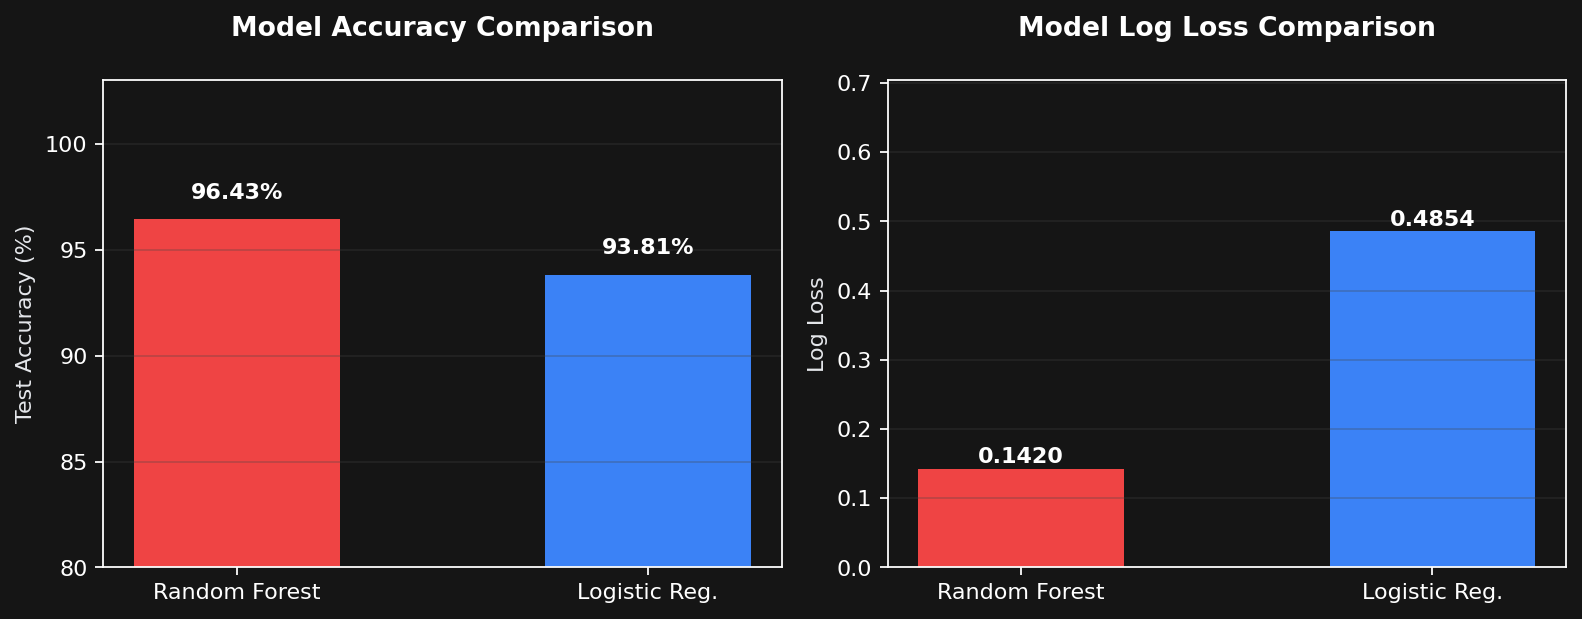
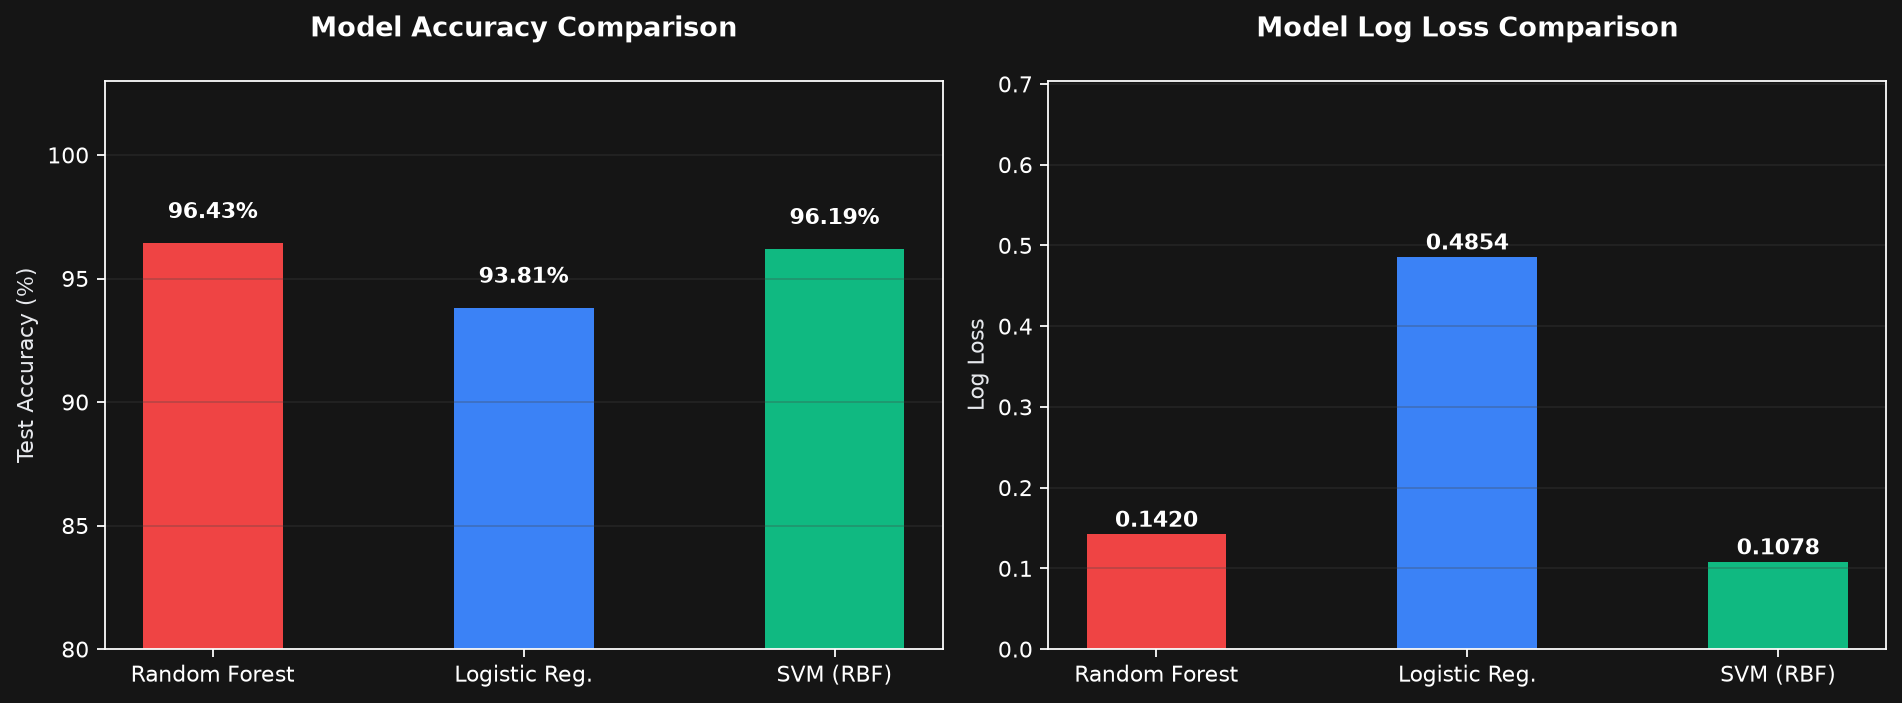
feat: add Support Vector Machine (SVM) model training, evaluation metrics, and comparison charts

diff --git a/train_model.py b/train_model.py
@@ -13,10 +13,10 @@ from sklearn.metrics import (
 )
 from sklearn.model_selection import train_test_split
 from sklearn.preprocessing import StandardScaler
+from sklearn.svm import SVC
 
 
 def generate_synthetic_dataset(num_samples=2100):
-
     np.random.seed(42)
     n_per_class = num_samples // 3
 
@@ -67,9 +67,9 @@ def train_and_save_model():
     X_train_scaled = scaler.fit_transform(X_train)
     X_test_scaled = scaler.transform(X_test)
 
-    print("2. Training Random Forest & Logistic Regression Models...")
+    print("2. Training Random Forest, Logistic Regression & Support Vector Machine (SVM)...")
 
-    #  Train Random Forest 
+    # --- Train Random Forest ---
     rf_model = RandomForestClassifier(
         n_estimators=100,
         max_depth=4,
@@ -82,108 +82,109 @@ def train_and_save_model():
     rf_pred = rf_model.predict(X_test_scaled)
     rf_proba = rf_model.predict_proba(X_test_scaled)
 
-    #  Train Logistic Regression 
-    
+    # --- Train Logistic Regression ---
     lr_model = LogisticRegression(C=0.005, random_state=42)
     lr_model.fit(X_train_scaled, y_train)
     lr_pred = lr_model.predict(X_test_scaled)
     lr_proba = lr_model.predict_proba(X_test_scaled)
 
-    # Compute Metrics for Random Forest
-    rf_acc = accuracy_score(y_test, rf_pred)
-    rf_prec, rf_rec, rf_f1, _ = precision_recall_fscore_support(
-        y_test, rf_pred, average="weighted", zero_division=0
-    )
+    # --- Train Support Vector Machine (SVM) ---
+    svm_model = SVC(kernel="rbf", C=1.0, probability=True, random_state=42)
+    svm_model.fit(X_train_scaled, y_train)
+    svm_pred = svm_model.predict(X_test_scaled)
+    svm_proba = svm_model.predict_proba(X_test_scaled)
 
-    # Compute Metrics for Logistic Regression
-    lr_acc = accuracy_score(y_test, lr_pred)
-    lr_prec, lr_rec, lr_f1, _ = precision_recall_fscore_support(
-        y_test, lr_pred, average="weighted", zero_division=0
-    )
+    # Metrics Computation Function
+    def get_metrics(y_true, y_pred, y_proba):
+        acc = accuracy_score(y_true, y_pred)
+        prec, rec, f1, _ = precision_recall_fscore_support(
+            y_true, y_pred, average="weighted", zero_division=0
+        )
+        loss = log_loss(y_true, y_proba)
+        return {
+            "accuracy": round(float(acc * 100), 2),
+            "precision": round(float(prec * 100), 2),
+            "recall": round(float(rec * 100), 2),
+            "f1_score": round(float(f1 * 100), 2),
+            "log_loss": round(float(loss), 4),
+        }
 
     metrics_data = {
-        "random_forest": {
-            "accuracy": round(float(rf_acc * 100), 2),
-            "precision": round(float(rf_prec * 100), 2),
-            "recall": round(float(rf_rec * 100), 2),
-            "f1_score": round(float(rf_f1 * 100), 2),
-            "log_loss": round(float(log_loss(y_test, rf_proba)), 4),
-        },
-        "logistic_regression": {
-            "accuracy": round(float(lr_acc * 100), 2),
-            "precision": round(float(lr_prec * 100), 2),
-            "recall": round(float(lr_rec * 100), 2),
-            "f1_score": round(float(lr_f1 * 100), 2),
-            "log_loss": round(float(log_loss(y_test, lr_proba)), 4),
-        },
+        "random_forest": get_metrics(y_test, rf_pred, rf_proba),
+        "logistic_regression": get_metrics(y_test, lr_pred, lr_proba),
+        "svm": get_metrics(y_test, svm_pred, svm_proba),
     }
 
-    print("3. Generating Comparative Evaluation Plots...")
+    print("3. Generating 3-Model Comparative Evaluation Plots...")
 
-    #  Generate Comparative Accuracy & Loss Bar Chart
+    # --- Generate Comparative Accuracy & Loss Bar Charts ---
     with plt.style.context("dark_background"):
-        fig, (ax1, ax2) = plt.subplots(1, 2, figsize=(10, 4), facecolor="#151515")
+        fig, (ax1, ax2) = plt.subplots(1, 2, figsize=(12, 4.5), facecolor="#151515")
         ax1.set_facecolor("#151515")
         ax2.set_facecolor("#151515")
 
-        models = ["Random Forest", "Logistic Reg."]
-        accuracies = [metrics_data["random_forest"]["accuracy"], metrics_data["logistic_regression"]["accuracy"]]
-        losses = [metrics_data["random_forest"]["log_loss"], metrics_data["logistic_regression"]["log_loss"]]
+        models = ["Random Forest", "Logistic Reg.", "SVM (RBF)"]
+        colors = ["#EF4444", "#3B82F6", "#10B981"]
+        accuracies = [
+            metrics_data["random_forest"]["accuracy"],
+            metrics_data["logistic_regression"]["accuracy"],
+            metrics_data["svm"]["accuracy"],
+        ]
+        losses = [
+            metrics_data["random_forest"]["log_loss"],
+            metrics_data["logistic_regression"]["log_loss"],
+            metrics_data["svm"]["log_loss"],
+        ]
 
         # Accuracy Plot
-        bars1 = ax1.bar(models, accuracies, color=["#EF4444", "#3B82F6"], width=0.5)
+        bars1 = ax1.bar(models, accuracies, color=colors, width=0.45)
         ax1.set_ylabel("Test Accuracy (%)", color="#E5E7EB")
         ax1.set_title("Model Accuracy Comparison", fontweight="bold", color="#FFFFFF", pad=20)
         ax1.set_ylim(80, 103)
         ax1.grid(True, color="#444444", alpha=0.3, axis="y")
         for bar in bars1:
             yval = bar.get_height()
-            ax1.text(bar.get_x() + bar.get_width()/2, yval + 0.8, f"{yval:.2f}%", ha="center", va="bottom", color="white", fontweight="bold")
+            ax1.text(bar.get_x() + bar.get_width() / 2, yval + 0.8, f"{yval:.2f}%", ha="center", va="bottom", color="white", fontweight="bold")
 
-        # Loss Plot (FIXED HEADROOM & TITLE PADDING)
-        bars2 = ax2.bar(models, losses, color=["#EF4444", "#3B82F6"], width=0.5)
+        # Loss Plot
+        bars2 = ax2.bar(models, losses, color=colors, width=0.45)
         ax2.set_ylabel("Log Loss", color="#E5E7EB")
         ax2.set_title("Model Log Loss Comparison", fontweight="bold", color="#FFFFFF", pad=20)
-        ax2.set_ylim(0, max(losses) * 1.45)  # Added headroom so labels don't touch the title
+        ax2.set_ylim(0, max(losses) * 1.45)
         ax2.grid(True, color="#444444", alpha=0.3, axis="y")
         for bar in bars2:
             yval = bar.get_height()
-            ax2.text(bar.get_x() + bar.get_width()/2, yval + 0.003, f"{yval:.4f}", ha="center", va="bottom", color="white", fontweight="bold")
+            ax2.text(bar.get_x() + bar.get_width() / 2, yval + 0.003, f"{yval:.4f}", ha="center", va="bottom", color="white", fontweight="bold")
 
         fig.tight_layout()
         fig.savefig("model_comparison_graphs.png", dpi=160, facecolor=fig.get_facecolor(), bbox_inches="tight")
         plt.close(fig)
 
-    # --- Generate Side-by-Side Confusion Matrices ---
+    # --- Generate 3 Side-by-Side Confusion Matrices ---
     cm_rf = confusion_matrix(y_test, rf_pred, labels=[0, 1, 2])
     cm_lr = confusion_matrix(y_test, lr_pred, labels=[0, 1, 2])
+    cm_svm = confusion_matrix(y_test, svm_pred, labels=[0, 1, 2])
 
     with plt.style.context("dark_background"):
-        fig, (ax1, ax2) = plt.subplots(1, 2, figsize=(11, 5), facecolor="#151515")
+        fig, (ax1, ax2, ax3) = plt.subplots(1, 3, figsize=(15, 4.5), facecolor="#151515")
         
-        # RF Matrix
-        ax1.set_facecolor("#151515")
-        ax1.imshow(cm_rf, cmap="Reds")
-        ax1.set_xticks([0, 1, 2], labels=["Alert", "Mild", "Drowsy"])
-        ax1.set_yticks([0, 1, 2], labels=["Alert", "Mild", "Drowsy"])
-        ax1.set_xlabel("Predicted Label", color="#E5E7EB")
-        ax1.set_ylabel("True Label", color="#E5E7EB")
-        ax1.set_title("Random Forest Confusion Matrix", color="#FFFFFF", fontweight="bold", pad=15)
-        for i in range(3):
-            for j in range(3):
-                ax1.text(j, i, str(cm_rf[i, j]), ha="center", va="center", color="white", fontweight="bold")
+        matrices = [
+            (ax1, cm_rf, "Reds", "Random Forest Matrix"),
+            (ax2, cm_lr, "Blues", "Logistic Reg. Matrix"),
+            (ax3, cm_svm, "Greens", "SVM (RBF) Matrix"),
+        ]
 
-        # LR Matrix
-        ax2.set_facecolor("#151515")
-        ax2.imshow(cm_lr, cmap="Blues")
-        ax2.set_xticks([0, 1, 2], labels=["Alert", "Mild", "Drowsy"])
-        ax2.set_yticks([0, 1, 2], labels=["Alert", "Mild", "Drowsy"])
-        ax2.set_xlabel("Predicted Label", color="#E5E7EB")
-        ax2.set_ylabel("True Label", color="#E5E7EB")
-        ax2.set_title("Logistic Regression Confusion Matrix", color="#FFFFFF", fontweight="bold", pad=15)
-        for i in range(3):
-            for j in range(3):
-                ax2.text(j, i, str(cm_lr[i, j]), ha="center", va="center", color="white", fontweight="bold")
+        for ax, cm, cmap, title in matrices:
+            ax.set_facecolor("#151515")
+            ax.imshow(cm, cmap=cmap)
+            ax.set_xticks([0, 1, 2], labels=["Alert", "Mild", "Drowsy"])
+            ax.set_yticks([0, 1, 2], labels=["Alert", "Mild", "Drowsy"])
+            ax.set_xlabel("Predicted Label", color="#E5E7EB")
+            ax.set_ylabel("True Label", color="#E5E7EB")
+            ax.set_title(title, color="#FFFFFF", fontweight="bold", pad=15)
+            for i in range(3):
+                for j in range(3):
+                    ax.text(j, i, str(cm[i, j]), ha="center", va="center", color="white", fontweight="bold")
 
         fig.tight_layout()
         fig.savefig("confusion_matrices_comparison.png", dpi=160, facecolor=fig.get_facecolor(), bbox_inches="tight")
@@ -192,6 +193,7 @@ def train_and_save_model():
     print("\n--- Model Evaluation Results ---")
     print(f"Random Forest Accuracy       : {metrics_data['random_forest']['accuracy']}%")
     print(f"Logistic Regression Accuracy : {metrics_data['logistic_regression']['accuracy']}%")
+    print(f"SVM (RBF Kernel) Accuracy    : {metrics_data['svm']['accuracy']}%")
 
     # Serialize Random Forest as primary deployment model alongside scaler
     joblib.dump(rf_model, "drowsiness_model.pkl")
@@ -200,7 +202,7 @@ def train_and_save_model():
     with open("metrics.json", "w") as f:
         json.dump(metrics_data, f, indent=4)
 
-    print("Success! Saved primary model, scaler, metrics.json, and comparison charts.")
+    print("Success! Saved primary model, scaler, metrics.json, and 3-model comparison charts.")
 
 
 if __name__ == "__main__":

diff --git a/app.py b/app.py
@@ -184,7 +184,7 @@ tab_live, tab_metrics, tab_matrix = st.tabs([
     "🧩 Confusion Matrices"
 ])
 
-# LIVE MONITORING
+# TAB 1: LIVE MONITORING
 with tab_live:
     st.markdown("### Real-Time Webcam Inference & Active Safety Monitoring")
     st.markdown("Stream active video analysis, eye/mouth tracking parameters, and instant hazard alerts.")
@@ -230,12 +230,13 @@ with tab_metrics:
     if metrics and "random_forest" in metrics:
         rf = metrics["random_forest"]
         lr = metrics["logistic_regression"]
+        svm = metrics.get("svm", {"accuracy": "--", "precision": "--", "recall": "--", "f1_score": "--"})
 
-        col_rf, col_lr = st.columns(2, gap="large")
+        col_rf, col_lr, col_svm = st.columns(3, gap="medium")
 
         with col_rf:
             with st.container(border=True):
-                st.markdown("#### 🌲 Random Forest Classifier (Primary Model)")
+                st.markdown("#### 🌲 Random Forest")
                 c1, c2, c3, c4 = st.columns(4)
                 c1.metric("Accuracy", f"{rf['accuracy']}%")
                 c2.metric("Precision", f"{rf['precision']}%")
@@ -244,36 +245,42 @@ with tab_metrics:
 
         with col_lr:
             with st.container(border=True):
-                st.markdown("#### 📈 Logistic Regression Classifier")
+                st.markdown("#### 📈 Logistic Regression")
                 c1, c2, c3, c4 = st.columns(4)
                 c1.metric("Accuracy", f"{lr['accuracy']}%")
                 c2.metric("Precision", f"{lr['precision']}%")
                 c3.metric("Recall", f"{lr['recall']}%")
                 c4.metric("F1 Score", f"{lr['f1_score']}%")
+
+        with col_svm:
+            with st.container(border=True):
+                st.markdown("#### 🎯 Support Vector Machine")
+                c1, c2, c3, c4 = st.columns(4)
+                c1.metric("Accuracy", f"{svm['accuracy']}%")
+                c2.metric("Precision", f"{svm['precision']}%")
+                c3.metric("Recall", f"{svm['recall']}%")
+                c4.metric("F1 Score", f"{svm['f1_score']}%")
     else:
         st.warning("Metrics file not found. Run 'python train_model.py'.")
 
     st.markdown("---")
     st.markdown("### Comparative Performance Charts")
     if os.path.exists("model_comparison_graphs.png"):
-        
-        
-        st.image("model_comparison_graphs.png")
+        st.image("model_comparison_graphs.png", use_container_width=True)
     else:
         st.info("Run train_model.py to generate comparative graphs.")
 
-#  TAB 3: CONFUSION MATRICES
+# TAB 3: CONFUSION MATRICES
 with tab_matrix:
     st.markdown("### Classification Breakdown (Confusion Matrices)")
-    st.markdown("Detailed true label vs. predicted label comparisons for multi-class fatigue detection.")
+    st.markdown("Detailed true label vs. predicted label comparisons across all three trained algorithms.")
 
     if os.path.exists("confusion_matrices_comparison.png"):
-        
-        st.image("model_comparison_graphs.png")
+        st.image("confusion_matrices_comparison.png", use_container_width=True)
     else:
         st.info("Run train_model.py to generate confusion matrices.")
 
-# LIVE WEBCAM EXECUTION LOOP 
+# LIVE WEBCAM EXECUTION LOOP
 if run_app:
     cap = cv2.VideoCapture(0)
 
@@ -392,9 +399,7 @@ if run_app:
                     mar_bar.empty()
 
                 frame_rgb = cv2.cvtColor(frame, cv2.COLOR_BGR2RGB)
-                
-                
-                video_placeholder.image(frame_rgb, channels="RGB")
+                video_placeholder.image(frame_rgb, channels="RGB", use_container_width=True)
 
         finally:
             cap.release()
